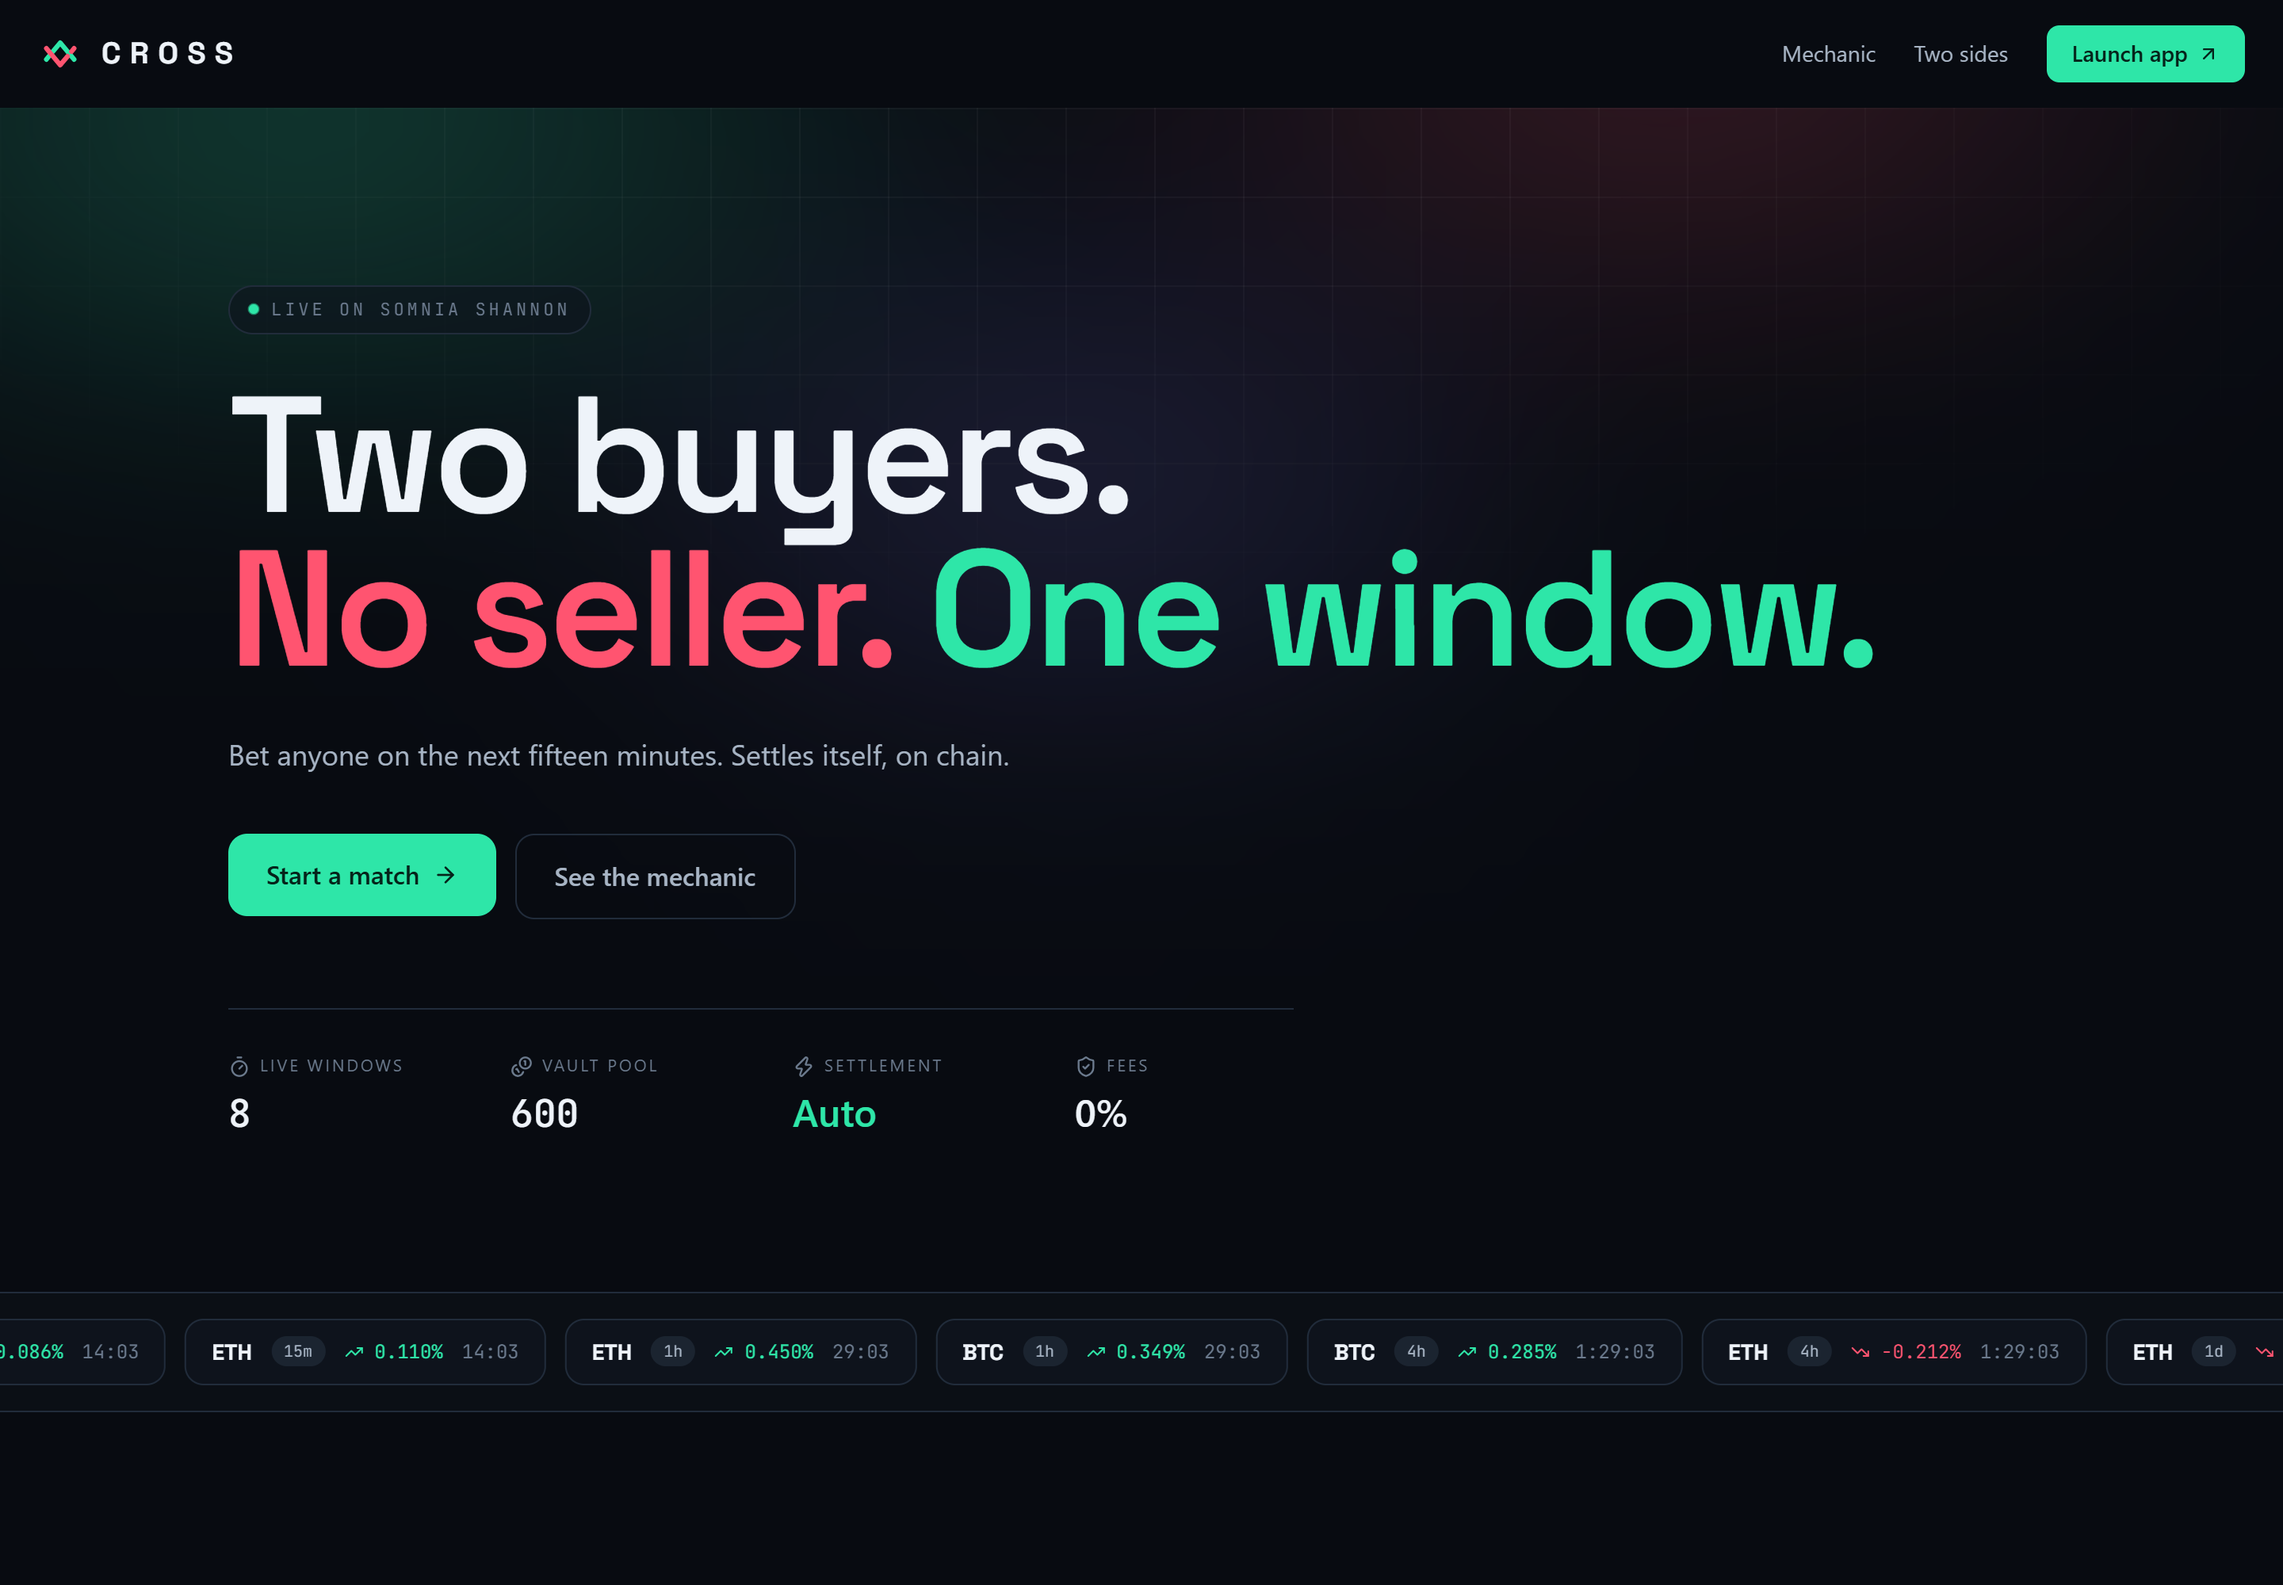
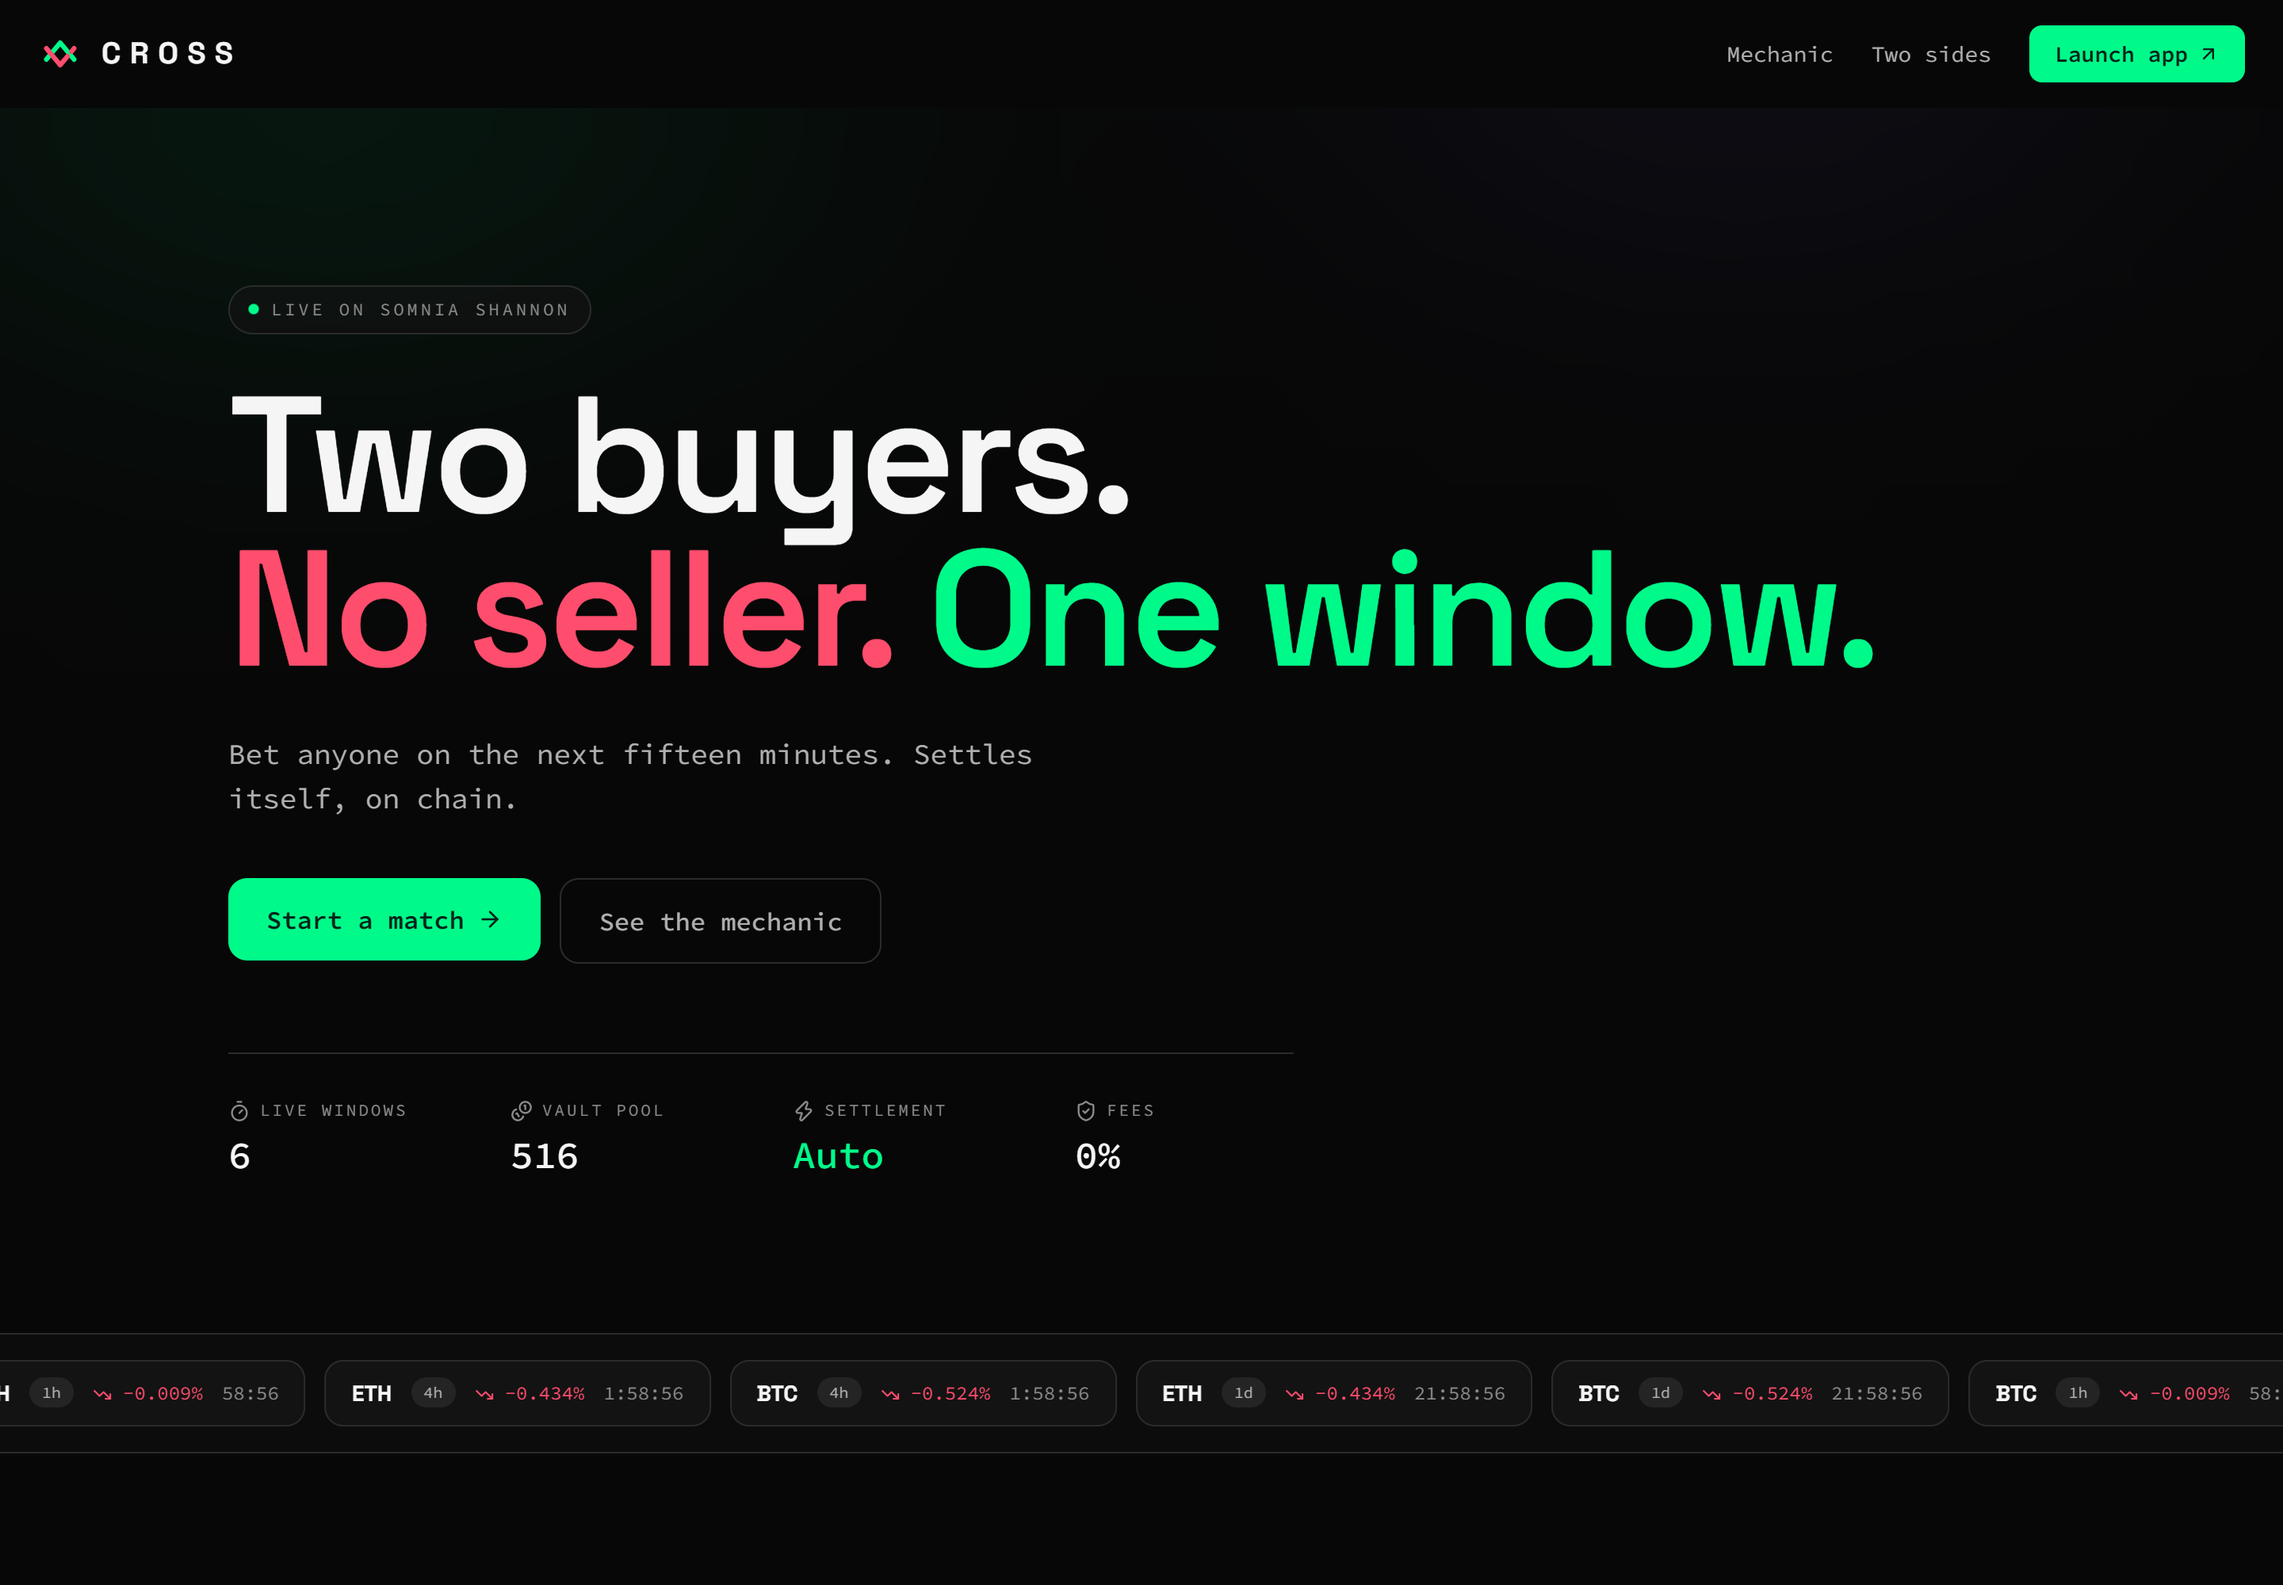
Match the palette and type to Somnia and dreamDEX
Sampled both live sites rather than guessing. They share a language: neutral near-black
grounds with no colour cast, greys at f5f5f5 through 8a8a8a, and Source Code Pro used for
almost everything. dreamDEX's own accents are 00fa89 green and 6e6eed violet.

CROSS was blue-tinted with a sans face, which read as a different product. The tokens are
now the neutral set, the green and violet are dreamDEX's, and the interface is monospace,
with Space Grotesk kept only for the largest headings so the brand still has a voice.

Removes the graph-paper overlay and softens the aurora, since both sites are flat.

Also speeds up the hero counters: at the old spring the vault pool sat at 7 on its way to
516 for several seconds, which reads as a real number to anyone glancing at it.

diff --git a/web/src/styles.css b/web/src/styles.css
@@ -1,21 +1,23 @@
 @import "tailwindcss";
 
+/* Sampled from somnia.network and dreamdex.io: neutral near-black, no colour cast, with
+   dreamDEX's own green and violet. Both sites are monospace-first, so CROSS is too. */
 @theme {
-  --color-ground: #080b11;
-  --color-surface: #0e131c;
-  --color-surface-2: #141b26;
-  --color-raised: #1b2430;
-  --color-line: #212c3b;
-  --color-ink: #eef3f9;
-  --color-ink-2: #a7b4c4;
-  --color-muted: #6b7a8d;
-  --color-up: #2ee6a8;
-  --color-down: #ff5470;
+  --color-ground: #070707;
+  --color-surface: #131313;
+  --color-surface-2: #1a1a1a;
+  --color-raised: #242424;
+  --color-line: #2b2b2b;
+  --color-ink: #f5f5f5;
+  --color-ink-2: #afafaf;
+  --color-muted: #8a8a8a;
+  --color-up: #00fa89;
+  --color-down: #ff4d6d;
   --color-gold: #ffc65c;
-  --color-violet: #8b7cf6;
+  --color-violet: #6e6eed;
 
-  --font-display: "Space Grotesk", ui-sans-serif, system-ui, sans-serif;
-  --font-mono: "JetBrains Mono", ui-monospace, monospace;
+  --font-display: "Space Grotesk", "Source Code Pro", ui-sans-serif, sans-serif;
+  --font-mono: "Source Code Pro", ui-monospace, monospace;
 }
 
 @layer base {
@@ -26,7 +28,7 @@
   body {
     background: var(--color-ground);
     color: var(--color-ink);
-    font-family: ui-sans-serif, system-ui, "Segoe UI", Roboto, sans-serif;
+    font-family: "Source Code Pro", ui-monospace, monospace;
     -webkit-font-smoothing: antialiased;
     overflow-x: hidden;
   }
@@ -64,12 +66,11 @@
   inset: -30% -10% auto;
   height: 760px;
   pointer-events: none;
-  filter: blur(70px);
-  opacity: 0.5;
+  filter: blur(90px);
+  opacity: 0.28;
   background:
-    radial-gradient(38% 46% at 22% 30%, rgba(46, 230, 168, 0.5), transparent 70%),
-    radial-gradient(34% 44% at 72% 24%, rgba(255, 84, 112, 0.42), transparent 70%),
-    radial-gradient(30% 40% at 50% 60%, rgba(139, 124, 246, 0.36), transparent 70%);
+    radial-gradient(38% 46% at 22% 30%, rgba(0, 250, 137, 0.34), transparent 70%),
+    radial-gradient(34% 44% at 72% 24%, rgba(110, 110, 237, 0.3), transparent 70%);
   animation: drift 22s ease-in-out infinite alternate;
 }
 
@@ -80,16 +81,6 @@
   100% {
     transform: translate3d(3%, 3%, 0) scale(1.1);
   }
-}
-
-.grid-veil {
-  position: absolute;
-  inset: 0;
-  pointer-events: none;
-  background-image: linear-gradient(rgba(255, 255, 255, 0.035) 1px, transparent 1px),
-    linear-gradient(90deg, rgba(255, 255, 255, 0.035) 1px, transparent 1px);
-  background-size: 56px 56px;
-  mask-image: radial-gradient(ellipse 80% 60% at 50% 0%, #000 20%, transparent 75%);
 }
 
 .glass {

diff --git a/web/src/Landing.jsx b/web/src/Landing.jsx
@@ -53,7 +53,8 @@ function Counter({ to, decimals = 0, prefix = "", suffix = "" }) {
   const ref = useRef(null);
   const inView = useInView(ref, { once: true });
   const mv = useMotionValue(0);
-  const spring = useSpring(mv, { stiffness: 60, damping: 18 });
+  // Snappy on purpose: a slow count means the hero shows a number that is briefly wrong.
+  const spring = useSpring(mv, { stiffness: 170, damping: 24 });
   const [shown, setShown] = useState("0");
   useEffect(() => {
     if (inView && to != null) mv.set(to);
@@ -131,7 +132,6 @@ export default function Landing({ go }) {
       {/* hero */}
       <section ref={heroRef} className="relative overflow-hidden px-6 pt-28 pb-24">
         <div className="aurora" />
-        <div className="grid-veil" />
         <motion.div style={{ y: heroY, opacity: heroFade }} className="relative mx-auto max-w-6xl">
           <motion.div
             variants={rise}

diff --git a/web/index.html b/web/index.html
@@ -7,7 +7,7 @@
     <link rel="preconnect" href="https://fonts.googleapis.com" />
     <link rel="preconnect" href="https://fonts.gstatic.com" crossorigin />
     <link
-      href="https://fonts.googleapis.com/css2?family=Space+Grotesk:wght@400;500;600;700&family=JetBrains+Mono:wght@400;500;700&display=swap"
+      href="https://fonts.googleapis.com/css2?family=Space+Grotesk:wght@500;600;700&family=Source+Code+Pro:wght@400;500;600;700&display=swap"
       rel="stylesheet"
     />
     <meta name="description" content="Head to head matches on dreamDEX event contracts. Two buyers, no seller, one window." />
